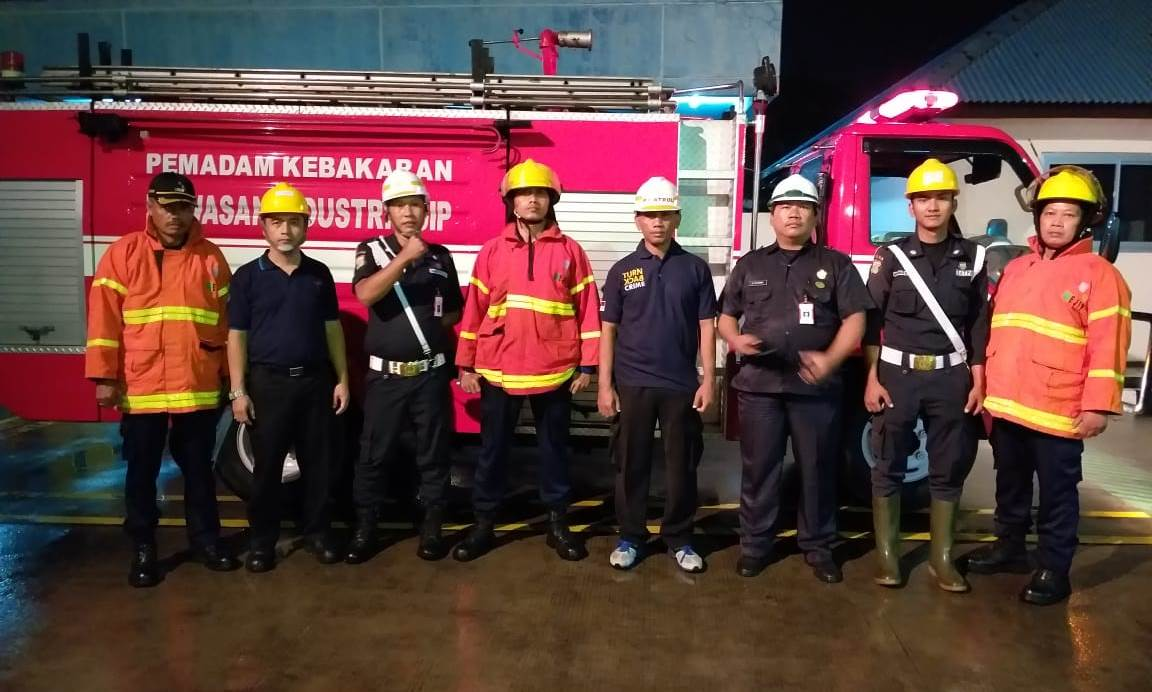
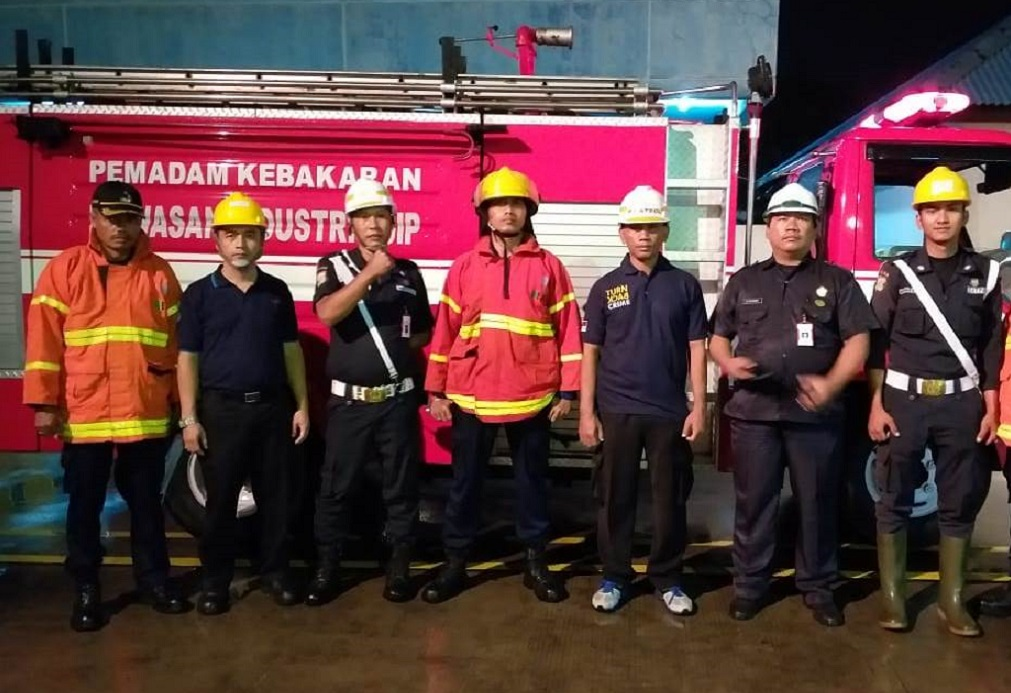
edit

diff --git a/index.html b/index.html
@@ -121,7 +121,7 @@
             <div class="navbar-header">
               <a class="navbar-brand home" href="/">
                 <img src="/img/logo.png" alt="PT. S-IK INDONESIA logo" class="hidden-xs hidden-sm">
-                <img src="/img/small.png" alt="PT. S-IK INDONESIA logo" class="visible-xs visible-sm">
+                <img src="/img/small.svg" alt="PT. S-IK INDONESIA logo" class="visible-xs visible-sm">
                 <span class="sr-only">PT. S-IK INDONESIA - go to homepage</span>
             </a>
                 <div class="navbar-buttons">
@@ -458,15 +458,15 @@
 
             
 
-            <div class="row">
+            <div class="row justify-content-center">
                 
                 
                 <div class="col-md-3 col-sm-6">
                     <div class="box-image-text blog">
                         <div class="top">
-                            <div class="image" style="overflow:hidden">
+                            <div class="image" style="overflow:hidden;">
                                 
-                                <img src="/img/banners/banner-4.jpeg" class="img-responsive" alt="" >
+                                <img src="/img/banners/banner-4.jpeg" class="img-responsive " alt="" >
                                 
                             </div>
                             <div class="bg"></div>
@@ -501,9 +501,9 @@ Kecelakaan terjadi karena berbagai alasan. Di sebagian besar industri, orang cen
                 <div class="col-md-3 col-sm-6">
                     <div class="box-image-text blog">
                         <div class="top">
-                            <div class="image" style="overflow:hidden">
+                            <div class="image" style="overflow:hidden;">
                                 
-                                <img src="/img/banners/bahaya-kebakaran.jpeg" class="img-responsive" alt="" >
+                                <img src="/img/banners/bahaya-kebakaran.jpeg" class="img-responsive " alt="" >
                                 
                             </div>
                             <div class="bg"></div>
@@ -535,9 +535,9 @@ Kecelakaan terjadi karena berbagai alasan. Di sebagian besar industri, orang cen
                 <div class="col-md-3 col-sm-6">
                     <div class="box-image-text blog">
                         <div class="top">
-                            <div class="image" style="overflow:hidden">
+                            <div class="image" style="overflow:hidden;">
                                 
-                                <img src="/img/banners/santunan-anak-yatim-2019.jpg" class="img-responsive" alt="" >
+                                <img src="/img/banners/santunan-anak-yatim-2019.jpg" class="img-responsive " alt="" >
                                 
                             </div>
                             <div class="bg"></div>
@@ -571,9 +571,9 @@ Acara tersebut merupakan acara rutin yang dilaksanakan setiap tahun pada bulan R
                 <div class="col-md-3 col-sm-6">
                     <div class="box-image-text blog">
                         <div class="top">
-                            <div class="image" style="overflow:hidden">
+                            <div class="image" style="overflow:hidden;">
                                 
-                                <img src="/img/banners/emergency-drill.jpg" class="img-responsive" alt="" >
+                                <img src="/img/banners/emergency-drill.jpg" class="img-responsive " alt="" >
                                 
                             </div>
                             <div class="bg"></div>

diff --git a/page/2/index.html b/page/2/index.html
@@ -121,7 +121,7 @@
             <div class="navbar-header">
               <a class="navbar-brand home" href="/">
                 <img src="/img/logo.png" alt="PT. S-IK INDONESIA logo" class="hidden-xs hidden-sm">
-                <img src="/img/small.png" alt="PT. S-IK INDONESIA logo" class="visible-xs visible-sm">
+                <img src="/img/small.svg" alt="PT. S-IK INDONESIA logo" class="visible-xs visible-sm">
                 <span class="sr-only">PT. S-IK INDONESIA - go to homepage</span>
             </a>
                 <div class="navbar-buttons">
@@ -458,15 +458,15 @@
 
             
 
-            <div class="row">
+            <div class="row justify-content-center">
                 
                 
                 <div class="col-md-3 col-sm-6">
                     <div class="box-image-text blog">
                         <div class="top">
-                            <div class="image" style="overflow:hidden">
+                            <div class="image" style="overflow:hidden;">
                                 
-                                <img src="/img/banners/penyakit-akibat-kerja.jpg" class="img-responsive" alt="" >
+                                <img src="/img/banners/penyakit-akibat-kerja.jpg" class="img-responsive " alt="" >
                                 
                             </div>
                             <div class="bg"></div>
@@ -499,9 +499,9 @@
                 <div class="col-md-3 col-sm-6">
                     <div class="box-image-text blog">
                         <div class="top">
-                            <div class="image" style="overflow:hidden">
+                            <div class="image" style="overflow:hidden;">
                                 
-                                <img src="/img/banners/ejip-fire-fighting.jpg" class="img-responsive" alt="" >
+                                <img src="/img/banners/ejip-fire-fighting.jpg" class="img-responsive " alt="" >
                                 
                             </div>
                             <div class="bg"></div>
@@ -534,9 +534,9 @@ Walaupun dalam kompetisi tersebut tidak memperoleh juara, tetapi keberanian menj
                 <div class="col-md-3 col-sm-6">
                     <div class="box-image-text blog">
                         <div class="top">
-                            <div class="image" style="overflow:hidden">
+                            <div class="image" style="overflow:hidden;">
                                 
-                                <img src="/img/banners/ejip-go-green.jpg" class="img-responsive" alt="" >
+                                <img src="/img/banners/ejip-go-green.jpg" class="img-responsive " alt="" >
                                 
                             </div>
                             <div class="bg"></div>
@@ -570,9 +570,9 @@ Dalam kondisi hujan dan lingkungan yang becek, tidak mengurangi semangat dalam m
                 <div class="col-md-3 col-sm-6">
                     <div class="box-image-text blog">
                         <div class="top">
-                            <div class="image" style="overflow:hidden">
+                            <div class="image" style="overflow:hidden;">
                                 
-                                <img src="/img/banners/sik-go-green.jpg" class="img-responsive" alt="" >
+                                <img src="/img/banners/sik-go-green.jpg" class="img-responsive " alt="" >
                                 
                             </div>
                             <div class="bg"></div>

diff --git a/qhse/index.html b/qhse/index.html
@@ -93,7 +93,7 @@
             <div class="navbar-header">
               <a class="navbar-brand home" href="/">
                 <img src="/img/logo.png" alt="QHSE logo" class="hidden-xs hidden-sm">
-                <img src="/img/small.png" alt="QHSE logo" class="visible-xs visible-sm">
+                <img src="/img/small.svg" alt="QHSE logo" class="visible-xs visible-sm">
                 <span class="sr-only">QHSE - go to homepage</span>
             </a>
                 <div class="navbar-buttons">
@@ -189,14 +189,8 @@
         <div id="content">
             
 
-            <div class="container">
-
-                <div class="row">
-
-                    <div class="col-md-12">
-
-                        <div>
-                          <h2 id="management-philosophy-and-code-of-conduct">Management Philosophy and Code of Conduct</h2>
+              <div class="container" id="qhse">
+    <h2 id="management-philosophy-and-code-of-conduct">Management Philosophy and Code of Conduct</h2>
 <hr>
 <h3 id="management-philosophy"><code>Management Philosophy</code></h3>
 <blockquote>
@@ -256,15 +250,54 @@
 <p><strong>K</strong> : Keep Green Environment</p>
 <hr>
 
-                        </div>
 
-                    </div>
+    <div class="row justify-content-center bg-light rounded my-5">
+        
+        <div class="col-lg-6 col-12 p-5">
+          <h5 class="text-center font-weight-bold my-2">Values:</h5>
+            <ol >
+              <li class="grey-text">
+              <p>
+              To cherish integrity and respect for people. (ethics)
+              </p>
+              </li>
+              <li class="grey-text">
+              <p>
+              To continually challenge the limits with high ideals, big dreams and great passion. (aspiration)
+              </p>
+              </li>
+              <li class="grey-text">
+              <p>
+              To prize dialogue and teamwork, and to treasure professional growth of employees. (organization)
+              </p>
+              </li>
+              <li class="grey-text">
+              <p>
+              To become the best partner of our clients, providing solutions from the clients’ standpoint. (role)
+              </p>
+              </li>
+              <li class="grey-text">
+             <p>
+             To grow with people across borders, sharing and respecting diverse values with the aim of co-prosperity. (symbiosis)
+             </p>
+              </li>
+            </ol>
+        </div>
+        
+        
+        <div class="col-lg-6 col-10 center-text">
+          <h5 class="text-center font-weight-bold my-2">Management Philosophy and Our Mission:</h5>
+            <p class="lh-3 text-center">
+            <em>
+            People come first, based on the spirit of “love (ai)” and “respect (kei)”, and together we strive towards contributing to the development of society.
+            </em>
+            </p>
+        </div>
+        
 
-                </div>
-                
-
-            </div>
-            
+      </div>
+      <hr>
+</div>
 
             
         </div>

diff --git a/product/index.html b/product/index.html
@@ -93,7 +93,7 @@
             <div class="navbar-header">
               <a class="navbar-brand home" href="/">
                 <img src="/img/logo.png" alt="Product logo" class="hidden-xs hidden-sm">
-                <img src="/img/small.png" alt="Product logo" class="visible-xs visible-sm">
+                <img src="/img/small.svg" alt="Product logo" class="visible-xs visible-sm">
                 <span class="sr-only">Product - go to homepage</span>
             </a>
                 <div class="navbar-buttons">
@@ -199,11 +199,11 @@
                         <hr class="w-50 mb-5">
         
 
-                        <div class="container my-5">
+      <div class="container my-5">
 
                         
-                        <div class="row justify-content-between mt-5"> 
-                        <div class="col-lg-8 col-12">
+              <div class="row justify-content-between mt-5"> 
+                  <div class="col-lg-8 col-12">
                         <h5 class="font-weight-bold">COLOR PELLET                       </h5>
                         <ul class="list-group">
                         <li class="list-group-item d-flex justify-content-between align-items-center">
@@ -237,8 +237,8 @@
 
                 <hr class="my-5">
                     
-                    <div class="row justify-content-between"> 
-                    <div class="col-lg-8 col-12">
+            <div class="row justify-content-between"> 
+                <div class="col-lg-8 col-12">
                     <h5 class="font-weight-bold">COMPOUNDING</h5>
                     <ul class="list-group">
                       <li class="list-group-item d-flex justify-content-between align-items-center">
@@ -259,8 +259,8 @@
                       </li>
                     </ul>
                     <p class="text-small text-muted mb-0 pt-3">(Processing Amount 2018)</p>
-         </div>
-      </div>
+                 </div>
+             </div>
 
       <hr class="my-5">
 

diff --git a/blog/2019/06/10/bahaya-kebakaran-dan-penyakit-menular/index.html b/blog/2019/06/10/bahaya-kebakaran-dan-penyakit-menular/index.html
@@ -76,8 +76,8 @@
   
   
   
-    <meta property="og:image:width" content="1035">
-    <meta property="og:image:height" content="532">
+    <meta property="og:image:width" content="1094">
+    <meta property="og:image:height" content="760">
   
   
   <meta property="og:updated_time" content="2019-06-10T21:49:20&#43;0200">
@@ -120,7 +120,7 @@
             <div class="navbar-header">
               <a class="navbar-brand home" href="/">
                 <img src="/img/logo.png" alt="Bahaya Kebakaran Dan Penyakit Menular logo" class="hidden-xs hidden-sm">
-                <img src="/img/small.png" alt="Bahaya Kebakaran Dan Penyakit Menular logo" class="visible-xs visible-sm">
+                <img src="/img/small.svg" alt="Bahaya Kebakaran Dan Penyakit Menular logo" class="visible-xs visible-sm">
                 <span class="sr-only">Bahaya Kebakaran Dan Penyakit Menular - go to homepage</span>
             </a>
                 <div class="navbar-buttons">

diff --git a/blog/2019/07/01/tujuh-penyebab-kecelakaan-umum/index.html b/blog/2019/07/01/tujuh-penyebab-kecelakaan-umum/index.html
@@ -76,8 +76,8 @@
   
   
   
-    <meta property="og:image:width" content="1036">
-    <meta property="og:image:height" content="623">
+    <meta property="og:image:width" content="1085">
+    <meta property="og:image:height" content="753">
   
   
   <meta property="og:updated_time" content="2019-07-01T21:49:20&#43;0200">
@@ -120,7 +120,7 @@
             <div class="navbar-header">
               <a class="navbar-brand home" href="/">
                 <img src="/img/logo.png" alt="Tujuh Penyebab Kecelakaan Umum logo" class="hidden-xs hidden-sm">
-                <img src="/img/small.png" alt="Tujuh Penyebab Kecelakaan Umum logo" class="visible-xs visible-sm">
+                <img src="/img/small.svg" alt="Tujuh Penyebab Kecelakaan Umum logo" class="visible-xs visible-sm">
                 <span class="sr-only">Tujuh Penyebab Kecelakaan Umum - go to homepage</span>
             </a>
                 <div class="navbar-buttons">

diff --git a/blog/2019/05/25/santunan-anak-yatim-2019/index.html b/blog/2019/05/25/santunan-anak-yatim-2019/index.html
@@ -76,8 +76,8 @@
   
   
   
-    <meta property="og:image:width" content="1280">
-    <meta property="og:image:height" content="640">
+    <meta property="og:image:width" content="1105">
+    <meta property="og:image:height" content="763">
   
   
   <meta property="og:updated_time" content="2019-05-25T21:49:20&#43;0200">
@@ -120,7 +120,7 @@
             <div class="navbar-header">
               <a class="navbar-brand home" href="/">
                 <img src="/img/logo.png" alt="Santunan Anak Yatim 2019 logo" class="hidden-xs hidden-sm">
-                <img src="/img/small.png" alt="Santunan Anak Yatim 2019 logo" class="visible-xs visible-sm">
+                <img src="/img/small.svg" alt="Santunan Anak Yatim 2019 logo" class="visible-xs visible-sm">
                 <span class="sr-only">Santunan Anak Yatim 2019 - go to homepage</span>
             </a>
                 <div class="navbar-buttons">

diff --git a/blog/2019/04/13/emergency-drill/index.html b/blog/2019/04/13/emergency-drill/index.html
@@ -76,8 +76,8 @@
   
   
   
-    <meta property="og:image:width" content="1152">
-    <meta property="og:image:height" content="692">
+    <meta property="og:image:width" content="1011">
+    <meta property="og:image:height" content="693">
   
   
   <meta property="og:updated_time" content="2019-04-13T21:49:20&#43;0200">
@@ -120,7 +120,7 @@
             <div class="navbar-header">
               <a class="navbar-brand home" href="/">
                 <img src="/img/logo.png" alt="Emergency Drill logo" class="hidden-xs hidden-sm">
-                <img src="/img/small.png" alt="Emergency Drill logo" class="visible-xs visible-sm">
+                <img src="/img/small.svg" alt="Emergency Drill logo" class="visible-xs visible-sm">
                 <span class="sr-only">Emergency Drill - go to homepage</span>
             </a>
                 <div class="navbar-buttons">

diff --git a/blog/2018/10/18/ejip-fire-fighting-competition/index.html b/blog/2018/10/18/ejip-fire-fighting-competition/index.html
@@ -120,7 +120,7 @@
             <div class="navbar-header">
               <a class="navbar-brand home" href="/">
                 <img src="/img/logo.png" alt="EJIP Fire Fighting Competition logo" class="hidden-xs hidden-sm">
-                <img src="/img/small.png" alt="EJIP Fire Fighting Competition logo" class="visible-xs visible-sm">
+                <img src="/img/small.svg" alt="EJIP Fire Fighting Competition logo" class="visible-xs visible-sm">
                 <span class="sr-only">EJIP Fire Fighting Competition - go to homepage</span>
             </a>
                 <div class="navbar-buttons">

diff --git a/blog/2019/04/01/penyakit-akibat-kerja/index.html b/blog/2019/04/01/penyakit-akibat-kerja/index.html
@@ -120,7 +120,7 @@
             <div class="navbar-header">
               <a class="navbar-brand home" href="/">
                 <img src="/img/logo.png" alt="Penyakit Akibat Kerja logo" class="hidden-xs hidden-sm">
-                <img src="/img/small.png" alt="Penyakit Akibat Kerja logo" class="visible-xs visible-sm">
+                <img src="/img/small.svg" alt="Penyakit Akibat Kerja logo" class="visible-xs visible-sm">
                 <span class="sr-only">Penyakit Akibat Kerja - go to homepage</span>
             </a>
                 <div class="navbar-buttons">

diff --git a/tags/penyebab-akibat-kerja/index.html b/tags/penyebab-akibat-kerja/index.html
@@ -93,7 +93,7 @@
             <div class="navbar-header">
               <a class="navbar-brand home" href="/">
                 <img src="/img/logo.png" alt="penyebab-akibat-kerja logo" class="hidden-xs hidden-sm">
-                <img src="/img/small.png" alt="penyebab-akibat-kerja logo" class="visible-xs visible-sm">
+                <img src="/img/small.svg" alt="penyebab-akibat-kerja logo" class="visible-xs visible-sm">
                 <span class="sr-only">penyebab-akibat-kerja - go to homepage</span>
             </a>
                 <div class="navbar-buttons">

diff --git a/tags/fighting-competition/index.html b/tags/fighting-competition/index.html
@@ -93,7 +93,7 @@
             <div class="navbar-header">
               <a class="navbar-brand home" href="/">
                 <img src="/img/logo.png" alt="fighting-competition logo" class="hidden-xs hidden-sm">
-                <img src="/img/small.png" alt="fighting-competition logo" class="visible-xs visible-sm">
+                <img src="/img/small.svg" alt="fighting-competition logo" class="visible-xs visible-sm">
                 <span class="sr-only">fighting-competition - go to homepage</span>
             </a>
                 <div class="navbar-buttons">
